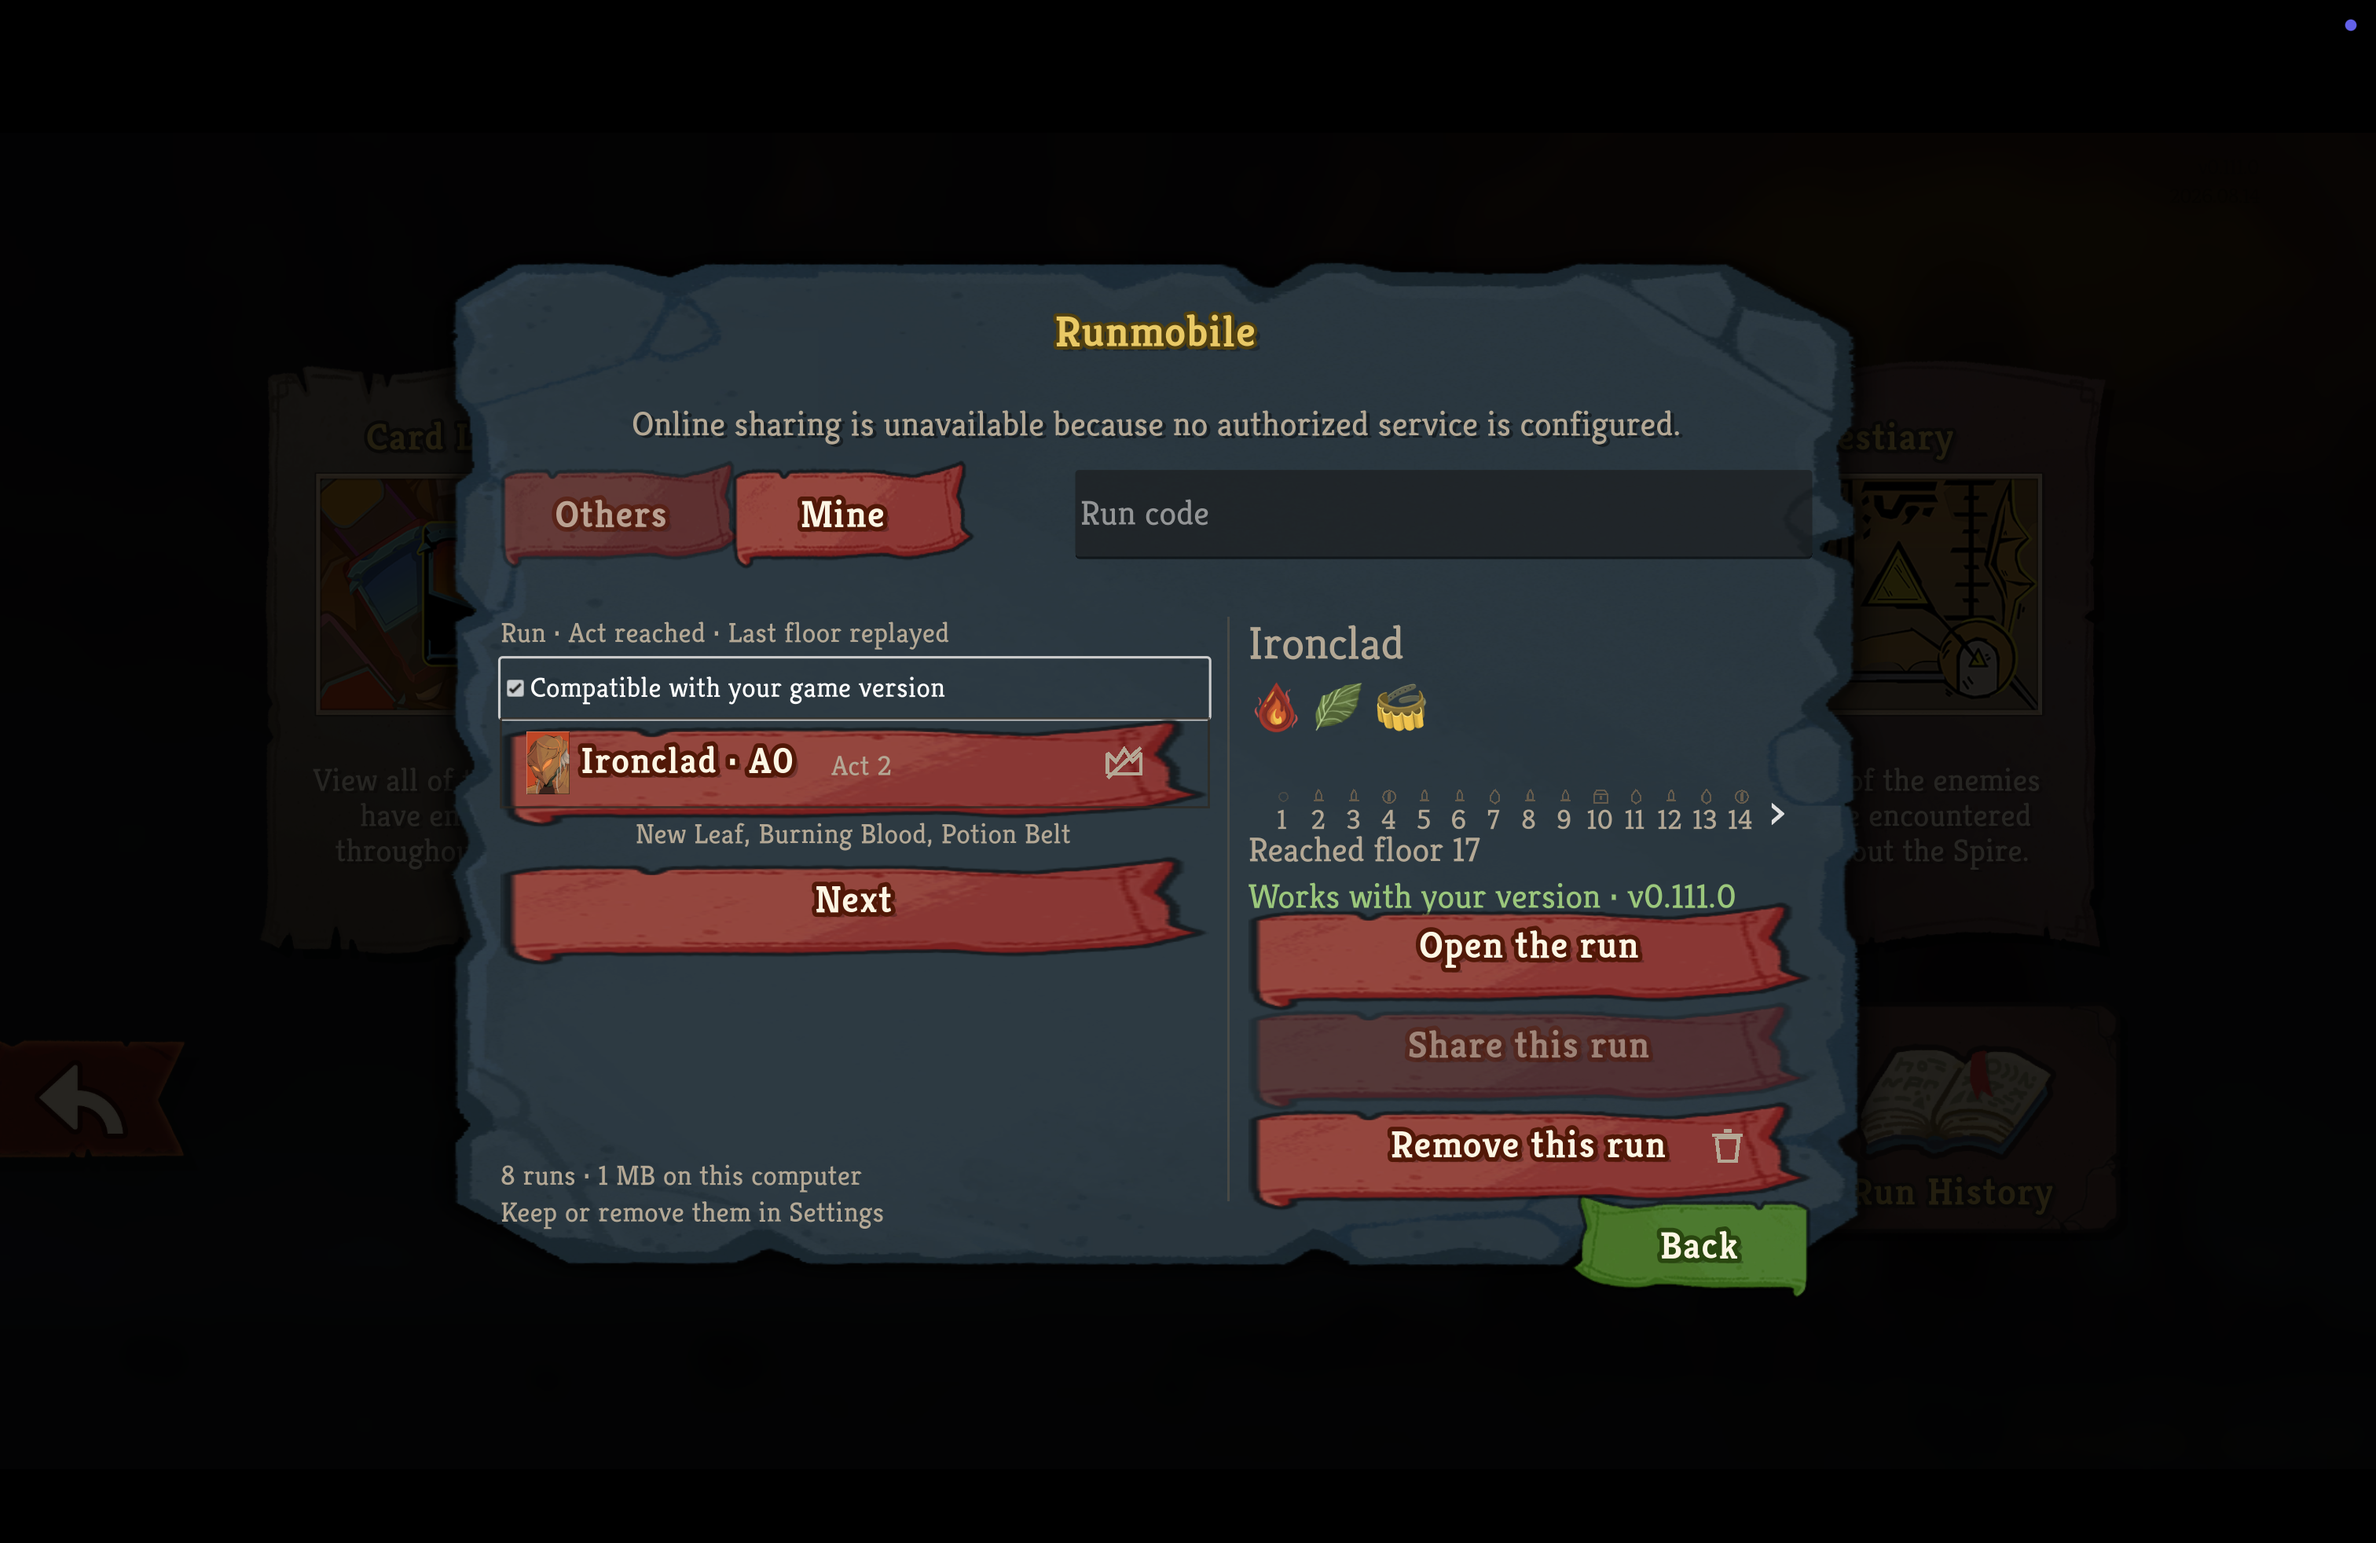
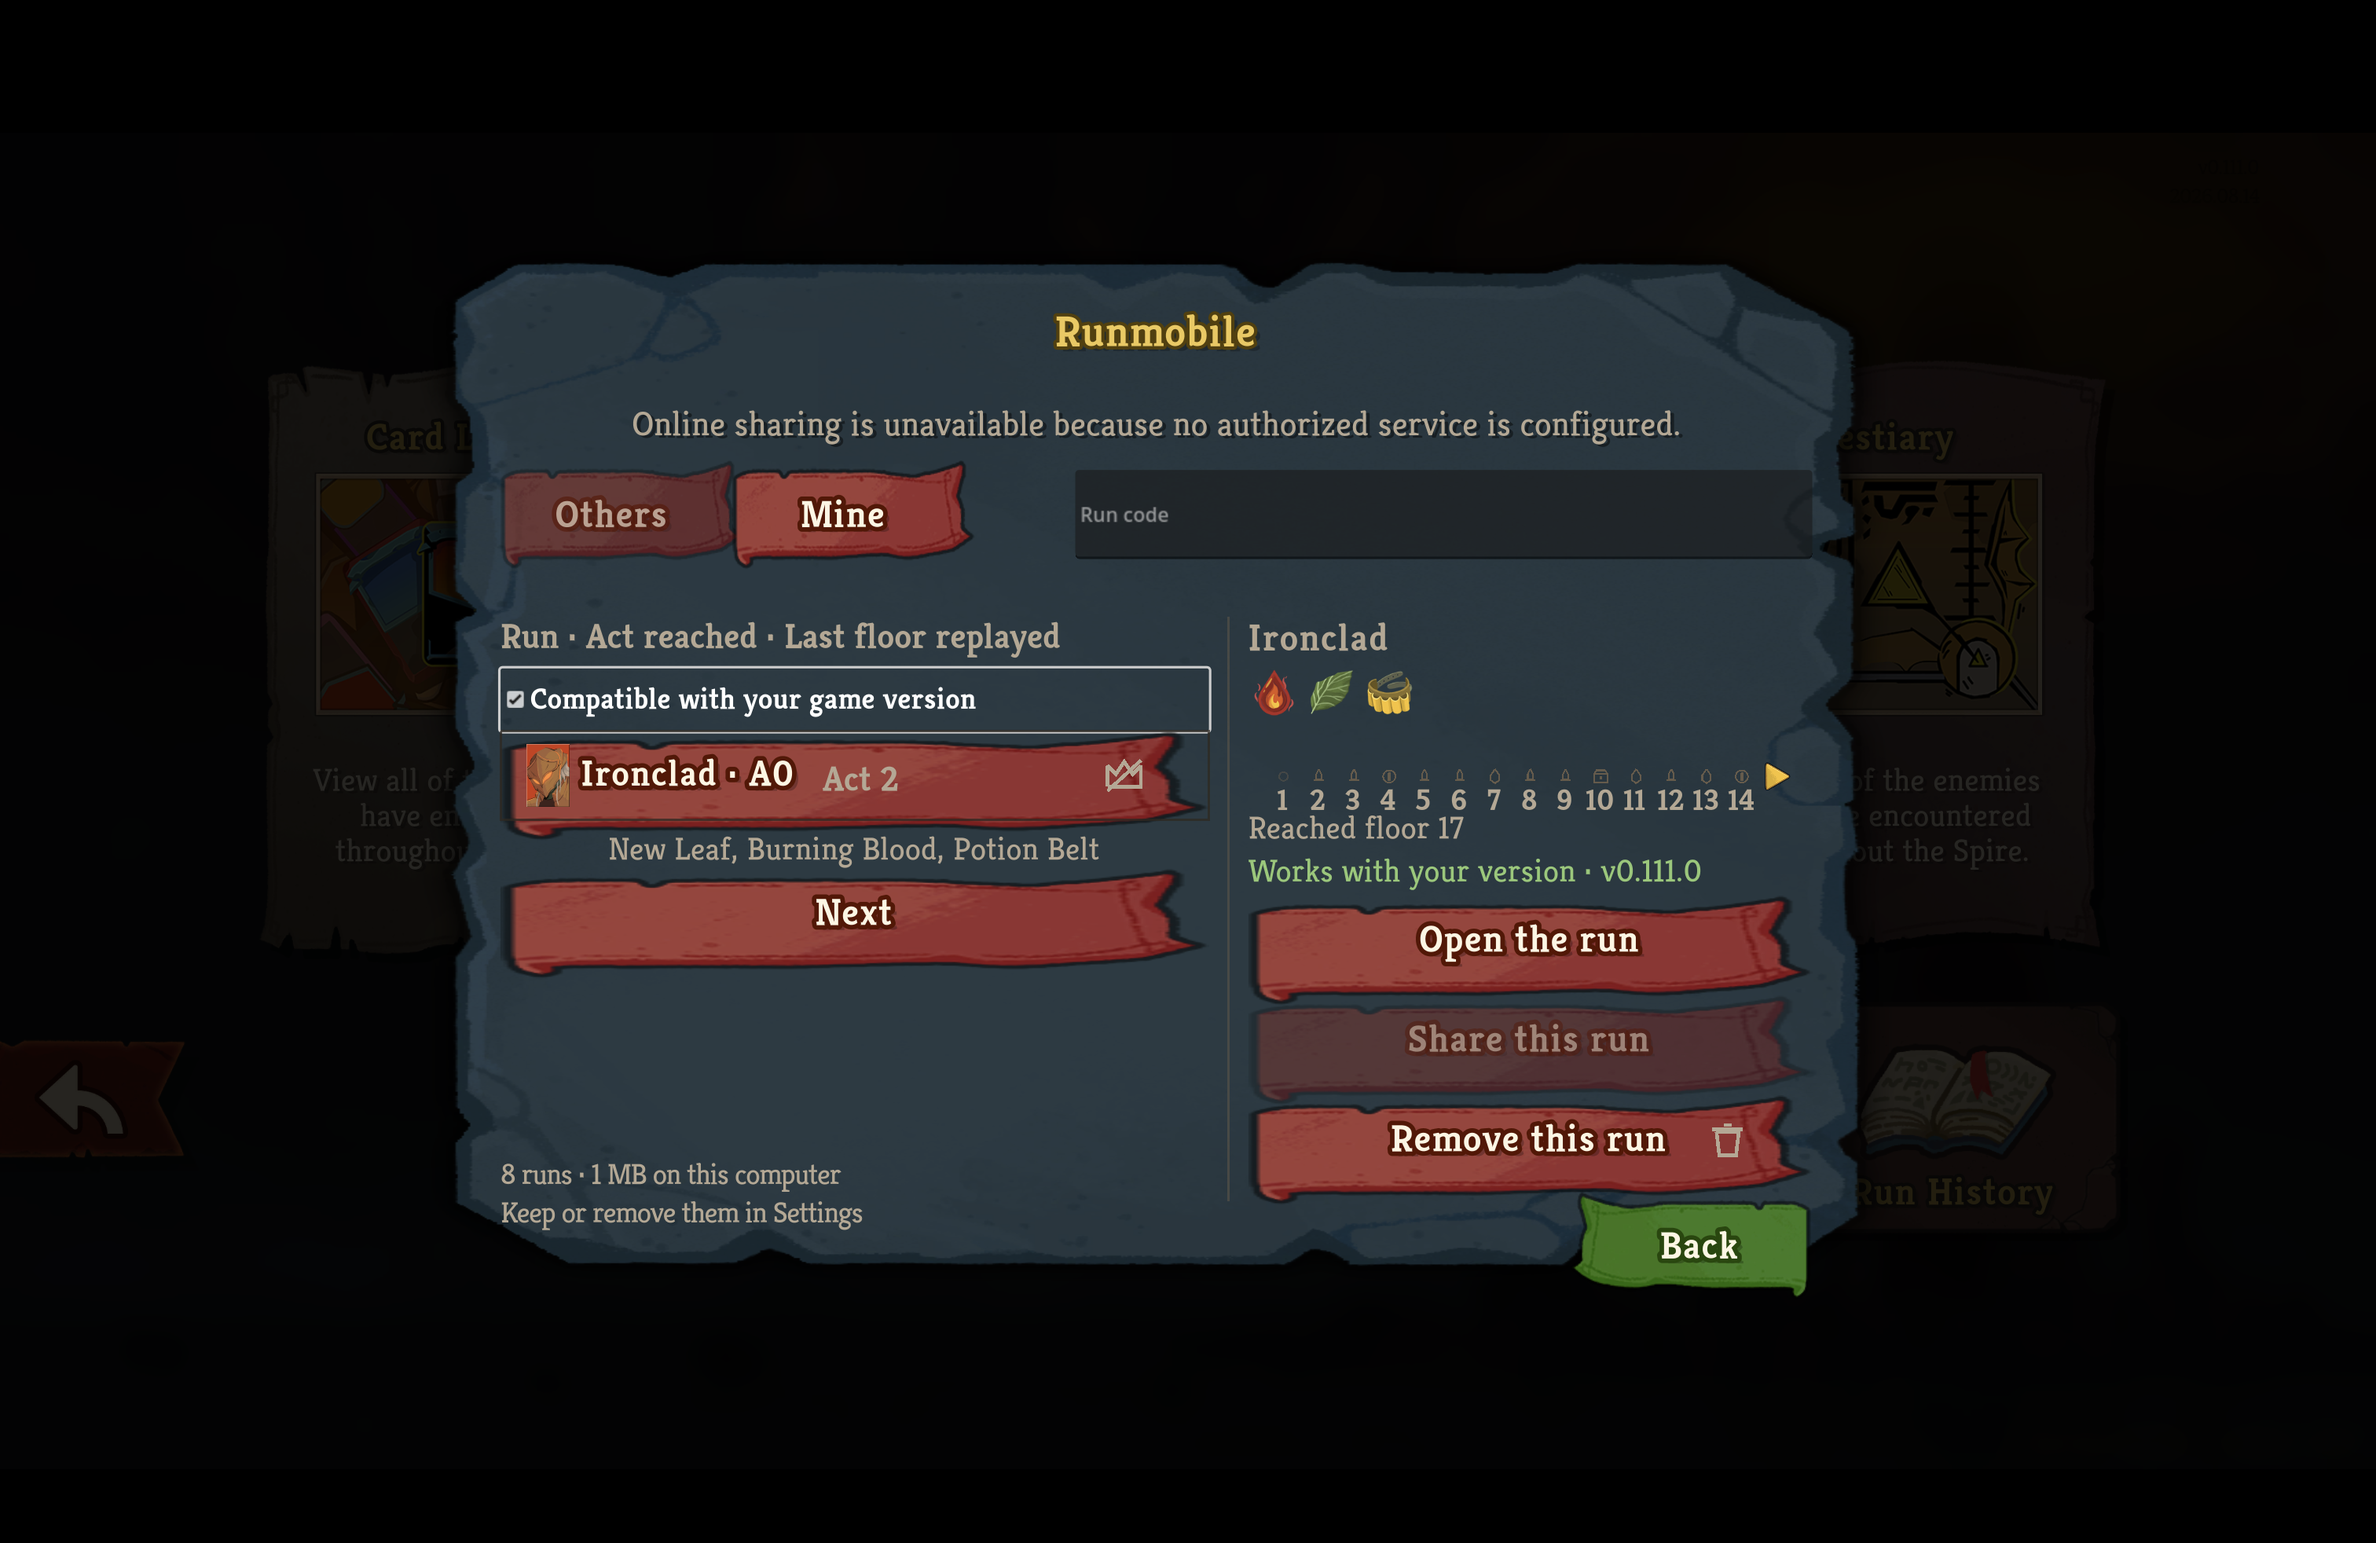
no-mistakes(test): fix settings role lookup and refresh retail evidence

Changed region(s): [[0.1865, 0.4038, 0.7771, 0.8075], [0.2176, 0.7454, 0.373, 0.8075], [0.4352, 0.3106, 0.4974, 0.3416]]

diff --git a/src/Sts2PilotTrainer.Mod/MyRunsSettings.cs b/src/Sts2PilotTrainer.Mod/MyRunsSettings.cs
@@ -34,6 +34,7 @@ namespace Sts2PilotTrainer.Mod;
 internal static class MyRunsSettings
 {
     private const string ModdingButtonPath = "%ModdingButton";
+    private const string ModdingButtonLabelPath = "%ModdingButton/Label";
     private const string SettingsValuePath =
[1 lines of base64/hex data omitted]
     private const string StepperNumeralPath =
@@ -112,11 +113,18 @@ internal static class MyRunsSettings
             ?? throw new InvalidOperationException(
                 "This build's modding settings button has no parent carrying its row label.");
         return new MyRunsSettingsText(
-            GameText.Require(entry.GetNodeOrNull<Control>("Label"), "settings row label"),
-            GameText.Require(screen.GetNodeOrNull<Control>(StepperNumeralPath), "settings stepper numeral"),
-            GameText.Require(screen.GetNodeOrNull<Control>(SettingsValuePath), "settings value"),
+            GameText.Require(entry.GetNodeOrNull<Control>("Label"), "settings row label at 'Modding/Label'"),
+            GameText.Require(
+                screen.GetNodeOrNull<Control>(StepperNumeralPath),
+                $"settings stepper numeral at '{StepperNumeralPath}'"),
+            GameText.Require(
+                screen.GetNodeOrNull<Control>(SettingsValuePath),
+                $"settings value at '{SettingsValuePath}'"),
             detail,
-            GameText.Require(anchor.GetNodeOrNull<Control>("%Label"), "settings button label"));
+            // Resolve the scene-owned unique path from the screen
+            GameText.Require(
+                screen.GetNodeOrNull<Control>(ModdingButtonLabelPath),
+                $"settings button label at '{ModdingButtonLabelPath}'"));
     }
 
     internal static MyRunsSettingsRow Attach(Control anchor, MyRunsSettingsText text)

diff --git a/tests/Sts2PilotTrainer.Mod.Tests/MyRunsSettingsTests.cs b/tests/Sts2PilotTrainer.Mod.Tests/MyRunsSettingsTests.cs
@@ -103,8 +103,8 @@ public sealed class MyRunsSettingsTests : IDisposable
         var screen = new NSettingsScreen();
         var entry = new MarginContainer();
         var rowLabel = Native("Label", 28);
-        var button = new Control();
-        var buttonLabel = Native("%Label", 22);
+        var button = new Control { Name = "ModdingButton" };
+        var buttonLabel = Native("%ModdingButton/Label", 22);
         var numeral = Native(
[1 lines of base64/hex data omitted]
             27);
@@ -113,9 +113,10 @@ public sealed class MyRunsSettingsTests : IDisposable
             26);
         entry.AddChild(rowLabel);
         entry.AddChild(button);
-        button.AddChild(buttonLabel);
+        screen.AddChild(buttonLabel);
         screen.AddChild(numeral);
         screen.AddChild(reading);
+        screen.AddChild(entry);
 
         var text = MyRunsSettings.NativeText(screen, button, new GameTextStyle(null, 24));
 

diff --git a/demo/RUNMOBILE-NATIVE-TYPE.md b/demo/RUNMOBILE-NATIVE-TYPE.md
@@ -1,46 +1,29 @@
-# Historical Runmobile native-type capture
+# Runmobile native-type capture
 
-> These screenshots show an earlier popup-body-based iteration, not the current named-role implementation.
-> A fresh in-client capture of the current implementation is outstanding.
+These screenshots show the current named-role typography in the v0.111.0 retail client at commit `70718c81`.
+The installed archive matched the build's SHA-256 digest and ran fullscreen on the game's 1512 × 982 reference surface with `--force-steam=off`.
 
-The v0.111.0 retail client ran the earlier branch, built and installed through `scripts/install-mod.sh`.
-It was launched directly with `--force-steam=off` into the existing non-Steam test profile without driving the running Steam process.
-The console lock state was read into a variable from `IOConsoleLocked` and was unlocked before the drive; the machine was held awake with `caffeinate` bound to the game process and released when it quit.
-The installed `Runmobile.dll` had the same SHA-256 digest as the packaged build.
-Commands start at the fullscreen main menu on a 1512 × 982-point display.
+## Library Others tab
 
-The library surfaces below used the popup's heading, description, and button styles broadly before the current implementation assigned a named native role to each kind of text.
-These captures are historical and are not evidence for the current library or settings typography.
-Current library and settings captures must be retaken in the retail client.
+![Current Others view using named native text roles](runmobile-library-native-type.png)
 
-## Earlier run-library iteration
+The library heading, supporting text, tabs, input, list headings, filters, run rows, facts, numerals, and buttons use the mapped native roles for their kinds.
 
-```bash
-cliclick c:610,799; sleep 4; cliclick c:764,718; sleep 4
-screencapture -x runmobile-library-native-type.png
-```
+## Library Mine tab
 
-```output
-```
+![Current Mine view using named native text roles and native pagination art](runmobile-library-mine-native-type.png)
 
-![Historical Others view using the earlier popup-wide mapping](runmobile-library-native-type.png)
+The Mine view shows the same named-role typography and the run strip pager's own gold arrow art from the game rather than a text chevron.
 
-This screenshot records the superseded popup-wide mapping.
+## Opened run pane
 
-```bash
-cliclick c:535,327; sleep 3
-screencapture -x runmobile-library-mine-native-type.png
-```
+![Current opened run pane using named native text roles](runmobile-library-open-native-type.png)
 
-```output
-```
-
-![Historical Mine view using the earlier popup-wide mapping](runmobile-library-mine-native-type.png)
-
-This screenshot predates the distinct floor-numeral, card-caption, fact, and footer roles.
+The selected run's identity, description, floor numerals, facts, and action use their mapped native roles.
 
 ## What this run did not cover
 
-Neither the playback tag nor the fight result panel was exercised here.
-Both need a recorded fight walked in the client, and fresh evidence for their current named-role mapping is outstanding.
-Their headless containment is asserted across three surfaces and three text sizes by `FightResultPanelTests.FitsInsideTheSurfaceItIsGiven` and `PlaybackTransportStripTests.TheTagIsDrawnAtTheGamesOwnSizeAndGrowsWithIt`, which is a weaker claim than a capture and is stated as such.
+The My Runs settings row did not render during this capture because its settings-button role lookup failed, so this evidence does not claim that surface.
+The playback transport and fight-result panel, including chronology and ledger paging, were not exercised either.
+Those surfaces still need a fresh in-client capture after the settings-row fix.
+Focused headless tests assert their mapped styles and containment, but that is weaker evidence than a retail-client capture.
